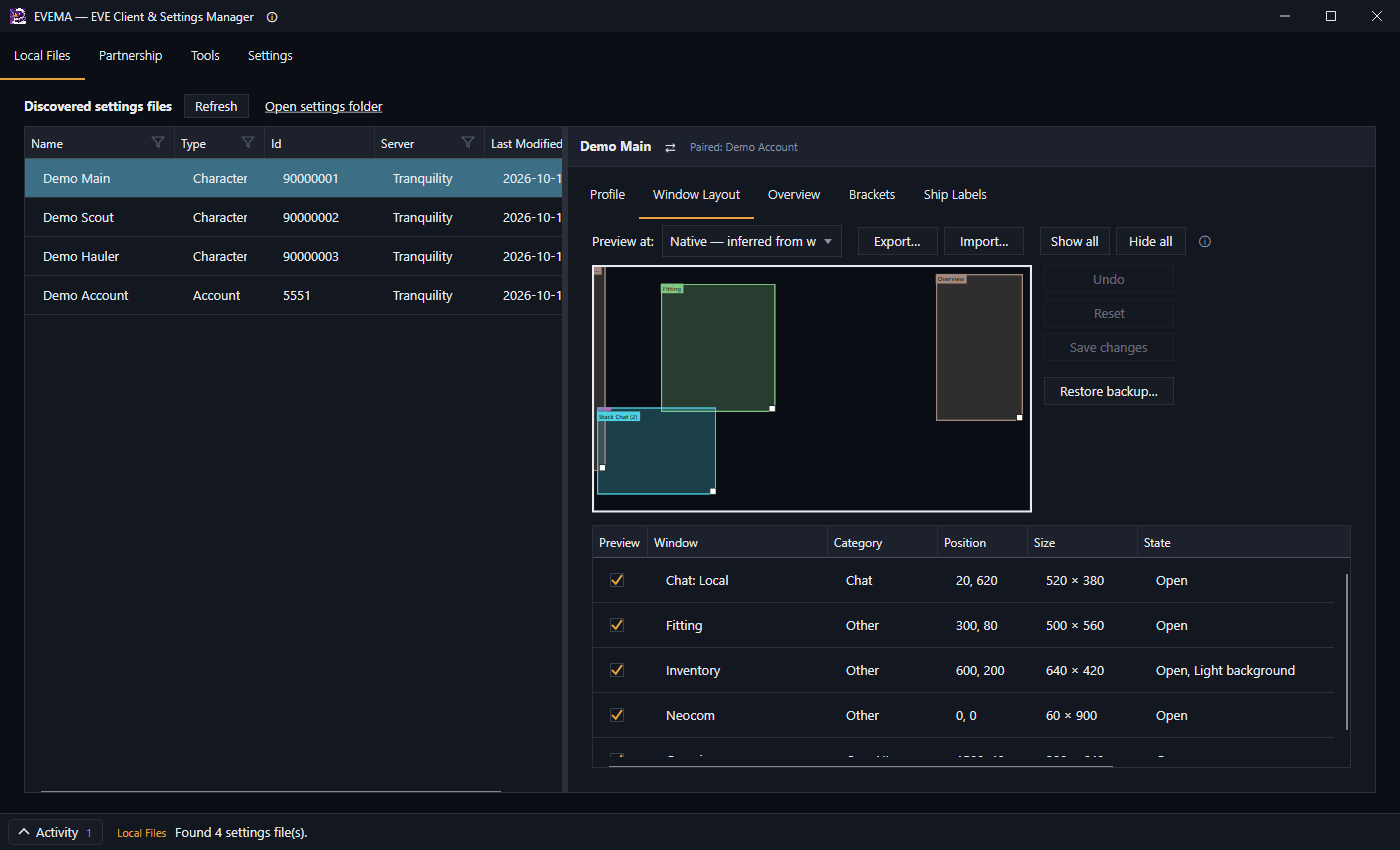
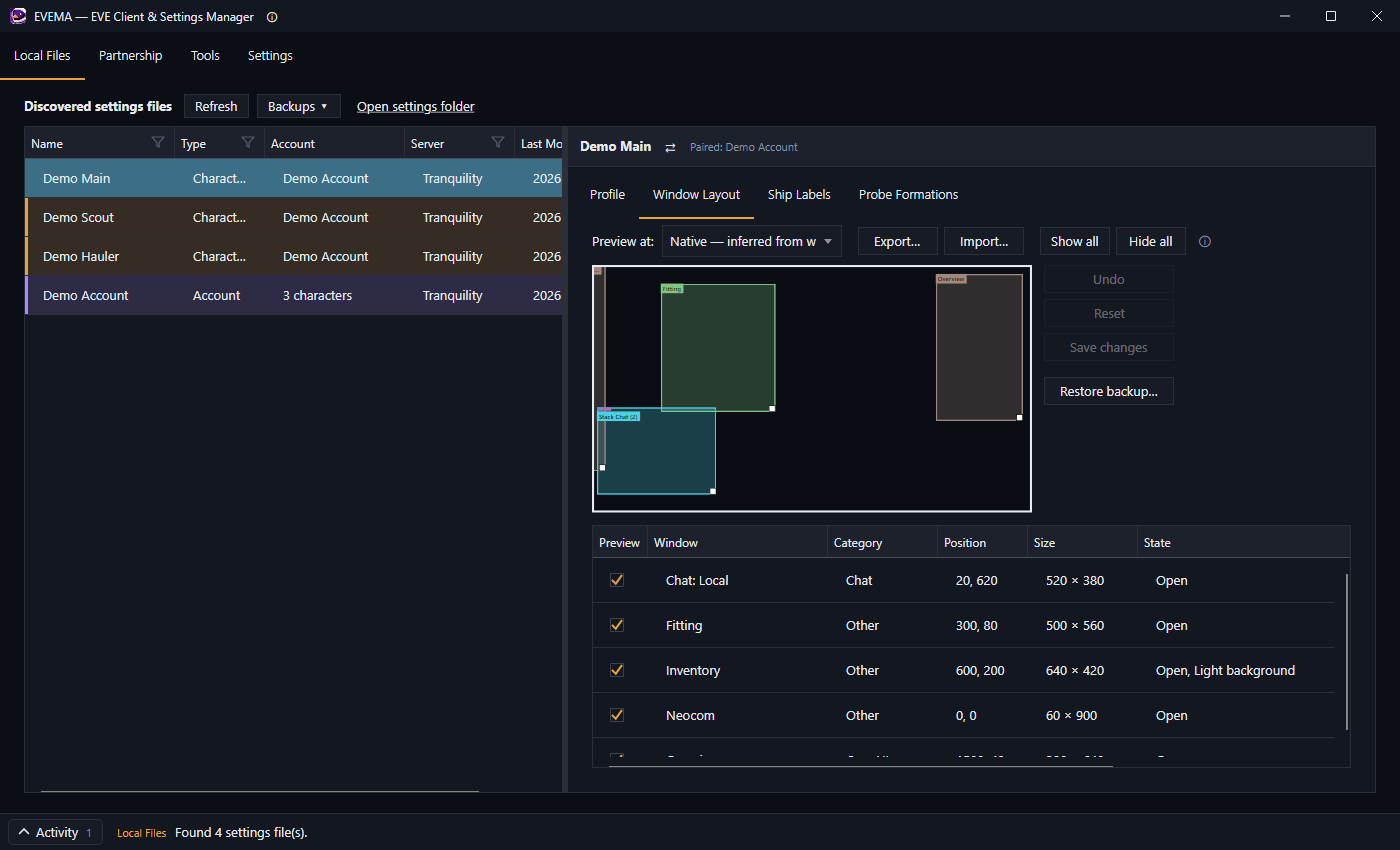
Update docs

Changed region(s): [[0.0, 0.1224, 0.3993, 0.3671], [0.5529, 0.2141, 0.7064, 0.2447], [0.0, 0.0, 0.0307, 0.0306]]

diff --git a/docs/what-evema-does.md b/docs/what-evema-does.md
@@ -8,19 +8,21 @@ EVEMA is a fan project. It is not made, endorsed or supported by Fenris Creation
 
 ### Your settings files (Local Files tab)
 
-- **Finds your settings.** It looks in the usual place on each system, including Steam/Proton and Wine prefixes on Linux. You can also point it at another folder. Characters are shown by name, and accounts by a name you choose.
+- **Finds your settings.** It looks in the usual place on each system, including Steam/Proton and Wine prefixes on Linux. You can also point it at another folder. Characters are shown by name, and accounts by a name you choose. Once you pair each character with its account, the list shows which go together.
 - **Shows what's in them.** For each character and account, it shows:
   - window positions on a scaled canvas
-  - overview tabs and bracket presets
-  - overview options and the ship label
+  - the ship label
   - the character's public profile
 - **Copies settings between characters and accounts:**
   - the whole file, to one character or to many at once
   - or only the sections you pick: window layout, overview tab presets, bracket presets, overview options, ship label
+  - or groups of settings: the whole overview, probe formations, suppressed dialogs, audio, camera and graphics, market filters, module slots, window tab groups, Neocom, chat channels, info panels, docked panels and search history
+  - sections and groups can go to one file or to many at once
   - before anything is written, it shows you what will change
 - **Exports and imports** a character's or account's settings as a JSON file you can keep or share, and exports an account's overview as the `.yaml` file the game's own Overview Settings can import.
-- **Edits settings directly:** bracket presets (create, duplicate, rename, delete, edit groups and states), which preset each overview tab uses, the ship label, overview options, window positions, and the "always show ship brackets" preference.
-- **Backs up before every change.** It makes a timestamped backup before it writes to any file, and you can restore any backup from the app. Files are written in a way that can't leave a half-written file behind, even if something crashes mid-save.
+- **Moves a whole setup** to another computer: **Export everything** saves every settings file of every install and profile, with EVEMA's names and pairings (and its backups, if you like), in one checksummed `.zip`. **Import everything** shows what's new and what differs before writing anything.
+- **Edits settings directly:** the ship label, window positions, probe formations, and the "always show ship brackets" preference. Overview and bracket preset editing is hidden while it's reworked; those settings can still be copied.
+- **Backs up before every change.** It makes a timestamped backup before it writes to any file, and you can restore any backup from the app, onto its own file or another of the same kind. You can also save named backups, which are kept until you delete them. Files are written in a way that can't leave a half-written file behind, even if something crashes mid-save.
 - **Waits for EVE to close.** The client saves its own settings when it logs out or closes, which would overwrite a change made while it was open (and a change only shows up at the next login anyway). So while any client is running, EVEMA holds each change back, shows it in a banner, and writes it once every client has closed, on top of whatever the client saved on its way out. **Write now** and **Discard** are in the banner, and EVEMA asks before quitting with changes still waiting.
 
 ### Partnership tab
@@ -39,7 +41,7 @@ EVEMA is a fan project. It is not made, endorsed or supported by Fenris Creation
 ## What it connects to
 
 - **ESI** (Fenris Creations' official public API, `esi.evetech.net`) and Fenris Creations' image server, for character names, public profiles, portraits and logos, and item group names. No login and no account access: only public information. Responses are cached and reused for as long as Fenris Creations allows.
-- **GitHub**, to check for a newer EVEMA release at startup (you can turn this off in Settings), and for the Tools tab's Get latest and Check for updates buttons when you click them.
+- **GitHub**, to check for a newer EVEMA release at startup (you can turn this off in Settings), to download that release when you click **Install and restart**, and for the Tools tab's Get latest and Check for updates buttons when you click them.
 
 Nothing else. EVEMA has no telemetry or analytics, and it never uploads your settings, logs or anything else.
 
@@ -52,7 +54,8 @@ These are firm lines, not "not yet":
 - **No reading or altering network traffic** between the client and Fenris Creations' servers.
 - **No automation or input.** No macros, no keystroke or mouse broadcasting, and nothing that plays the game for you.
 - **No logging in as you.** EVEMA never asks for your EVE account or SSO login.
-- **Nothing third-party runs inside EVEMA.** Managed tools run as their own programs, and only when you click Launch. EVEMA never starts something it downloaded by itself, never asks for administrator rights, and never installs certificates.
+- **Nothing third-party runs inside EVEMA.** Managed tools run as their own programs, and only when you click Launch.
+- **Nothing it downloads runs unless you click for it.** A tool starts only when you click **Launch**. A new EVEMA installs only when you click **Install and restart**, and only after the download matches the SHA-256 checksum GitHub publishes for it. EVEMA never asks for administrator rights and never installs certificates.
 - **No writes without a backup.**
 
 Requests that would cross these lines will be closed, however useful they would be.
@@ -60,8 +63,8 @@ Requests that would cross these lines will be closed, however useful they would 
 ## Good to know
 
 - **Waiting changes need EVEMA open.** A change held back while EVE runs is written when EVE closes, so leave EVEMA running until then (it asks before you quit). With several clients open, it waits for all of them.
-- **Not every setting can be copied section by section yet.** Keybinds, chat, audio and graphics are copied only as part of a whole-file copy.
-- **Test servers:** ESI only knows Tranquility characters, so characters from Singularity or Thunderdome are shown by ID, not name.
+- **Keybinds can't be copied section by section yet.** They're copied only as part of a whole-file copy.
+- **Other servers:** ESI only knows Tranquility characters. Singularity characters are looked up there anyway and marked "(via Tranquility)", since Singularity is a copy of Tranquility; Thunderdome characters are shown by ID. Serenity (the Chinese server) hasn't been tested: its files show if its client keeps them in the usual place.
 - **macOS:** the app isn't notarized, so the first launch needs right-click → **Open**. On macOS, and in Wine setups other than Steam/Proton, EVEMA may not detect a running client, in which case changes are written straight away, as if EVE were closed.
 - **Where EVEMA keeps its own data:** its preferences, backups, cache and logs live in its own folder, never inside EVE's. **Settings → Open Logs Folder** takes you there.
 

diff --git a/docs/user-guide/copying-settings.md b/docs/user-guide/copying-settings.md
@@ -10,9 +10,11 @@ Everything on this page starts with a right-click on a row in the **Local Files*
 | --- | --- |
 | Make one character's or account's settings an exact copy of another's | [Copy all to](#copy-a-whole-file) |
 | Do that for a whole group of characters at once | [Copy all to N selected files](#copy-to-many-at-once) |
-| Copy only the window layout, or only the overview presets, and leave everything else alone | [Copy sections to](#copy-only-some-sections) |
+| Copy only the window layout, the overview presets, the audio, camera or chat settings, and leave everything else alone | [Copy sections to](#copy-only-some-sections) |
+| Do that for a whole group of characters or accounts at once | [Copy sections to N selected files](#copy-sections-to-many-at-once) |
 | Keep a copy of your setup, move it to another computer, or share it with a friend | [Export and Import](#export-and-import-a-settings-file) |
 | Share your overview in the game's own format, for anyone to import in the client | [In game (.yaml)](#export-your-overview-for-the-game) |
+| Move everything to a new computer | [Export everything](#move-your-whole-setup-to-another-computer) |
 
 Copies only go between files of the same type: character to character, or account to account.
 
@@ -47,7 +49,39 @@ What you can copy:
 
 Overview tabs and bracket presets are matched **by name**, not by position. Nothing is created on the destination: a tab that doesn't exist there is reported as not matched rather than added.
 
-Keybinds, chat, audio and graphics can't be copied section by section yet. Use a whole-file copy for those.
+### More settings you can copy
+
+Under those sections, the window lists more groups of settings. Each is ticked to begin with only if it's on by default below and would change something:
+
+| Group | File | On by default | What it copies |
+| --- | --- | --- | --- |
+| **Overview (everything)** | account | no | The whole overview, columns and colours included. Ticking it unticks the four overview sections above, and the other way round. |
+| **Probe formations** | account | yes | Your saved probe formations and scanner filters. The client's own temporary formation on the destination is kept. |
+| **Suppressed dialogs** | account | yes | Your "don't show this again" choices. |
+| **Audio** | account | yes | Sound settings. |
+| **Camera and graphics** | account | yes | Camera, space mouse and graphics effects. |
+| **Market and contracts** | account | yes | Market and contract search filters. |
+| **Module slots and linked weapons** | account | no | Slot order and weapon groups. Usually set up per character, so it's off. |
+| **Window tab groups** | account | yes | Which tabs are grouped and selected in windows. |
+| **Windows (raw)** | character | no | The whole windows section. **Window layout** is the usual way to copy layouts. |
+| **Neocom** | character | yes | Your Neocom buttons. |
+| **Chat channels** | character | yes | The channels the character has joined. |
+| **Info panels** | character | yes | Which info panels are shown where. |
+| **Docked panels** | character | yes | Docked panels such as the skill planner and the map. |
+| **Search history** | both | no | Recent searches. |
+
+A group makes the destination's settings in it **the same as the source's**. So a setting the source doesn't have is removed, and the change list shows it as **Removed**. Untick it to keep it. Private and player chat channel settings, and cached values such as market prices, are never copied.
+
+Keybinds can't be copied section by section yet. Use a whole-file copy for those.
+
+## Copy sections to many at once
+
+1. Click the source, then **Ctrl+click** (**Cmd+click** on macOS) each target, or **Shift+click** for a range. Targets must be the same type as the source.
+2. Right-click the source and choose **Copy sections to** → **Copy sections to N selected files…**.
+3. Tick sections and groups once; they apply to every target. Each change in a list is labelled with its file, so you can untick a change on one file and keep it on the others.
+4. Click **Copy**.
+
+Each file gets its own backup and its own write. If one fails, the others still go ahead, and the status bar names the ones that failed. For characters, their paired accounts are included, each once, however many of the characters share it.
 
 ## Export and import a settings file
 
@@ -65,6 +99,29 @@ To apply one, right-click the file to change and choose **Import…**. You get t
 The **Ship Labels** tab has the same export under **Export ▾**, plus **Step by step (.txt)…**, which writes instructions for re-entering the label by hand in EVE's Ship Label editor.
 
 A few overview colours EVEMA can't match to the game's palette are left out; the status bar says which, and the game uses its default colour for them.
+
+## Move your whole setup to another computer
+
+**Backups ▾ → Export everything…** (above the Local Files list) saves your whole setup in one `.zip`:
+
+- every character and account settings file, and `prefs.ini`, of every EVE install and profile on this computer
+- EVEMA's account names, character names, pairings and state names
+- EVEMA's backups too, if you tick **Include EVEMA's backups**
+
+On the other computer, run each EVE client you use once, so its settings folder exists. Then choose **Backups ▾ → Import everything…** and pick the archive. EVEMA checks every file against the checksum saved with it, and refuses the whole archive if anything was damaged or changed.
+
+The import window lists every settings file and how it compares with what's already there:
+
+- **New** files are ticked, ready to import.
+- **Different here: replace?** files are not ticked. Tick the ones you want replaced; each is backed up first.
+- **Already the same** files are left alone.
+- **No install of this server** files can't be imported until you've run that client on this computer.
+
+Files go to the same server and profile they came from, even though EVE's install folder has a different name on each computer. If a computer has two installs of one server, the most recently used one gets the files.
+
+Names and pairings are added where this computer has none. Where both computers have a different name for the same character or account, you choose once whether to keep this computer's or take the archive's.
+
+Settings files hold your character and account IDs, chat channel IDs and other details about how you play. Only give an archive to someone you'd show your settings to.
 
 ## If a copy went wrong
 

diff --git a/docs/user-guide/editing-settings.md b/docs/user-guide/editing-settings.md
@@ -4,7 +4,9 @@ EVEMA can change some settings directly, without copying from another character.
 
 Every edit backs up the file first, and every edit waits for EVE to close if a client is running. See [Backups, and changes while EVE is running](backups-and-eve-running.md).
 
-Overview, brackets and ship label settings live in the **account** file. If you select a character, these tabs show its [paired account](getting-started.md#3-pair-each-character-with-its-account), and your edits change that account, so every character on it gets them.
+The ship label and probe formations live in the **account** file. If you select a character, the **Ship Labels** tab shows its [paired account](getting-started.md#3-pair-each-character-with-its-account), and your edits change that account, so every character on it gets them.
+
+Overview tabs and bracket presets can't be viewed or edited in EVEMA for now; that part of EVEMA is being reworked. You can still copy them between accounts with [Copy sections to](copying-settings.md#copy-only-some-sections), and export the whole overview for the game from the **Ship Labels** tab's **Export ▾**.
 
 ## Window layout
 
@@ -19,32 +21,35 @@ The **Window Layout** tab draws every window at its saved position and size, wit
 
 A window outlined in red hangs off the edge of the screen at that resolution.
 
-## Overview
-
-The **Overview** tab lists the account's overview tabs, which bracket preset each one uses, and its columns.
-
-- **Overview flags** (expand the section) are the overview's on/off options. Ticking or unticking one saves it straight away, with a backup.
-- **Edit brackets…** changes which preset the selected tab uses, and that preset's always-shown brackets.
-
-## Brackets
-
-The **Brackets** tab is the bracket preset catalogue for the account.
-
-- **Search presets** and **Unused only** narrow the list. Select a preset to see its groups and states, which tabs use it, and how it compares with another preset (**Compare with**).
-- **Duplicate…**, **Rename…** and **Delete…** manage your own presets. Built-in presets can't be changed: duplicate one to make an editable copy.
-- Add or remove groups and states in the detail pane, then save.
-- **Assign to selected tab** makes the overview tab you picked use this preset. **Tab assignments → Edit…** does the same from the tab's side, and also edits that preset's always-shown list.
-- **Copy preset to…** copies the selected preset to another account.
-- EVE doesn't publish what its numbered *states* mean. Select one, type a name, and click **Save name**; EVEMA shows your name wherever that number appears. The names are kept on your computer only.
-
-**Always show ship brackets in space** (at the bottom of the tab) shows every ship's label all the time, not only when selected. It's a client launch preference stored in `prefs.ini`, not part of the account, so it applies to every account in this settings profile and takes effect after you restart the client.
-
 ## Ship label
 
-The **Ship Labels** tab shows a preview of the account's ship label. **Edit…** opens the editor:
+**Always show ship brackets in space** (at the top of the **Ship Labels** tab) shows every ship's label all the time, not only when selected. It's a client launch preference stored in `prefs.ini`, not part of the account, so it applies to every account in this settings profile and takes effect after you restart the client.
+
+Below it, the tab shows a preview of the account's ship label. **Edit…** opens the editor:
 
 - The label is a list of **segments** (for example corporation, alliance, pilot name, ship type and ship name), plus line breaks. **Add segment**, **Add line break**, **Up**, **Down** and **Remove** arrange them.
 - For each segment you can set it **Enabled**, add **Pre-text** and **Post-text** (such as brackets around a ticker), and choose a **Color**, **Style** and **Font size**. Leaving a colour unchecked, or a style as a dash, uses the client's default.
 - **Save** writes the label; **Cancel** drops your changes.
 
 **Export ▾** saves the label for use elsewhere: **In game (.yaml)…** writes the whole overview, label included, as a file you can import from the client's Overview Settings, and **Step by step (.txt)…** writes instructions for typing the label into EVE's own editor by hand.
+
+## Probe formations
+
+Your saved probe formations live in the **account** file. Select an account, or a character paired with one, and open the **Probe Formations** tab. It lists the formations; select one to see it around your ship, with each probe's range and how far off-centre it is.
+
+![Probe Formations tab](../images/local-files-probe-formations.png)
+
+To change them, click **Edit…** (or right-click the account and choose **Probe formations…**). The editor opens in its own window:
+
+![Probe formation editor](../images/probe-formations.png)
+
+- **Formations** (left): **Add**, **Duplicate**, **Move up**, **Move down** and **Delete**. Select one to edit it, and type its name under **Name**.
+- **Preview** (middle): the formation around your ship, with North/South, West/East and Up/Down axes. Drag to turn it, scroll to zoom, or pick **Top**, **Front**, **Side** or **Reset**.
+- **Probes** (right): each probe's distance from the ship to the West, Up and North (negative for East, Down and South), and its range. Type plain numbers for km, or add **m** or **au**; far-out positions are shown in AU. **Every probe's range** sets them all at once. A formation holds up to 8 probes.
+- **Start from a preset** and **Pattern** replace the selected formation's probes. Patterns (ring, line, sphere, pinpoint) take a count, a spread and an axis. Presets such as **Drifter** and the **Stack** ones are close-range layouts, measured in km.
+- **Transform** scales, rotates, mirrors or moves the whole formation.
+- **Undo** and **Redo** step through your edits, and **Save** writes them, with a backup, like every other change.
+
+**Keep formations centred.** In game, a formation is placed around the probes' current average position, not around your ship. So a formation whose probes don't average out on the ship drifts that far every time you apply it. Below the preview, EVEMA tells you how far off-centre a formation is, and **Balance** adds or moves one probe to centre it.
+
+If the file changes while the window is open, for example because EVE saved it when you logged out, EVEMA offers **Reload**. Closing with unsaved changes asks first.

diff --git a/docs/user-guide/getting-started.md b/docs/user-guide/getting-started.md
@@ -18,14 +18,14 @@ Click **Get started**, or **Skip (use defaults)**. Everything here can be change
 
 Open the **Local Files** tab. The left side lists every settings file EVEMA found, under **Discovered settings files**:
 
-- **Characters** are shown by name, looked up from EVE's public API. Characters from the test servers (Singularity, Thunderdome) are shown by ID, because that API only knows Tranquility.
+- **Characters** are shown by name, looked up from EVE's public API, which only knows Tranquility. Singularity is a copy of Tranquility, so its characters are looked up there too and marked **(via Tranquility)**: a character made on Singularity since the last copy may not match. Thunderdome characters are shown by ID. The **Server** column, and its filter, say which server each file belongs to.
 - **Accounts** have no public name, so they're listed by ID. Give each one a name you'll recognise: right-click it and choose **Rename Account…**. The name is only stored in EVEMA.
 
 Click any row to see its details on the right. Use the funnel icons in the **Name**, **Type** and **Server** column headers to filter the list, and **Refresh** after EVE has saved new files.
 
 ## 3. Pair each character with its account
 
-A character's overview, brackets and ship label live in its *account's* file (see [the two file types](README.md#two-words-used-everywhere)). To see them when you select the character, pair the two:
+A character's overview, ship label and probe formations live in its *account's* file (see [the two file types](README.md#two-words-used-everywhere)). To see them when you select the character, pair the two:
 
 1. Select the character.
 2. Click the **⇄** button next to its name, above the detail tabs.
@@ -33,15 +33,23 @@ A character's overview, brackets and ship label live in its *account's* file (se
 
 EVEMA remembers the pairing. **Clear** removes it.
 
+You can see the pairings in the list:
+
+- The **Account** column shows each character's account, or **Not paired**, and each account's number of characters. Click the column heading to sort, which puts each account's characters together.
+- Select a character, and its account's row is tinted **violet** and the other characters on that account **amber**, so every file that goes with it, and which kind it is, shows at a glance. Select an account, and all of its characters are tinted amber, and the header above the tabs lists them. Select several rows at once (say, to copy settings to them) and the tints stay while they all belong to one account; pick rows from different accounts and the tints step aside.
+
 > **Not sure which account a character is on?** Log in with only that character, log out, close the client, then click **Refresh** in EVEMA. The character file and the account file with the newest **Last Modified** times belong together.
 
 ## 4. Look around
+
+In the list, click a column heading to sort by it, drag a column's edge to resize it, and **double-click the edge** to fit the column to its contents. EVEMA remembers the widths you set, and where you leave the divider between the list and the details, like the window size.
 
 With a character selected, the detail tabs show:
 
 - **Profile:** public information from EVE's API (corporation, alliance, history) and what EVEMA can see on this computer.
 - **Window Layout:** every window's position drawn to scale. **Preview at:** shows how the layout would look at another screen resolution.
-- **Overview**, **Brackets** and **Ship Labels:** the paired account's overview tabs, bracket presets and ship label.
+- **Ship Labels:** the paired account's ship label, and the "always show ship brackets in space" preference.
+- **Probe Formations:** the paired account's saved probe formations, with **Edit…** to change them.
 
 Nothing is changed by looking. EVEMA only writes when you click something that says so, and it always makes a [backup](backups-and-eve-running.md) first.
 

diff --git a/README.md b/README.md
@@ -8,9 +8,9 @@ EVEMA is a fan tool and is not affiliated with or endorsed by Fenris Creations (
 
 **What it does, in short:**
 
-- See each character's window layout, overview, bracket presets and ship label without logging in.
+- See each character's window layout, ship label and public profile without logging in.
 - Copy a whole settings file, or just the sections you pick, from one character to one or many others, with a preview of every change first.
-- Edit bracket presets, ship labels and overview options directly. Every change is backed up first and can be restored.
+- Edit window positions, ship labels and probe formations directly. Every change is backed up first and can be restored.
 - Keep community tools such as EVE-O Preview and Pyfa installed, launched and up to date, with checksums verified.
 
 EVEMA never modifies the client, reads its memory or automates anything. See **[what EVEMA does and won't do](docs/what-evema-does.md)** for the full list, including exactly what it connects to.
@@ -20,7 +20,7 @@ EVEMA never modifies the client, reads its memory or automates anything. See **[
 
 | | |
 |---|---|
-| ![Brackets](docs/images/local-files-brackets.png) | ![Ship labels](docs/images/local-files-ship-labels.png) |
+| ![Ship labels](docs/images/local-files-ship-labels.png) | ![Probe formations](docs/images/probe-formations.png) |
 | ![Warning while EVE is running](docs/images/running-client-banner.png) | ![Tools](docs/images/tools.png) |
 
 </details>
@@ -33,10 +33,12 @@ Grab the archive for your system from the [Releases page](../../releases). Every
 
 | System | File | Install |
 | --- | --- | --- |
-| Windows (64-bit) | `EVEMA-<version>-win-x64.zip` | Unzip anywhere and run `EVEMA.exe`. |
+| Windows (64-bit) | `EVEMA-<version>-win-x64-setup.exe` | Run it. Installs for you only (no administrator rights), with a Start menu entry and an uninstaller. |
+| Windows (64-bit), portable | `EVEMA-<version>-win-x64.zip` | Unzip anywhere and run `EVEMA.exe`. |
 | macOS, Apple silicon | `EVEMA-<version>-osx-arm64.zip` | Unzip, drag `EVEMA.app` to Applications. |
 | macOS, Intel | `EVEMA-<version>-osx-x64.zip` | Same as above. |
-| Linux (x64) | `EVEMA-<version>-linux-x64.tar.gz` | Extract, then run `./EVEMA`. |
+| Linux (x64) | `EVEMA-<version>-linux-x64.AppImage` | Make it executable (`chmod +x`) and run it. |
+| Linux (x64), tarball | `EVEMA-<version>-linux-x64.tar.gz` | Extract, then run `./EVEMA`. |
 
 **macOS first launch.** The app is not notarized, so macOS will refuse a normal double-click the first time. Right-click `EVEMA.app`, choose **Open**, then confirm (or allow it under System Settings → Privacy & Security → Open Anyway). You only need to do this once.
 

diff --git a/docs/user-guide/README.md b/docs/user-guide/README.md
@@ -5,8 +5,8 @@ Step-by-step help for using EVEMA. If you haven't installed it yet, start with t
 ## Pages
 
 1. **[Getting started](getting-started.md)**: first launch, finding your settings, naming accounts and pairing each character with its account.
-2. **[Copying settings](copying-settings.md)**: copy a whole file to one character or many, copy only some sections, and export or import settings as a file.
-3. **[Editing settings](editing-settings.md)**: window positions, overview options, bracket presets and the ship label.
+2. **[Copying settings](copying-settings.md)**: copy a whole file to one character or many, copy only some sections or groups of settings (to one file or many), and export or import settings as a file.
+3. **[Editing settings](editing-settings.md)**: window positions, the ship label and probe formations.
 4. **[Backups, and changes while EVE is running](backups-and-eve-running.md)**: how EVEMA keeps your files safe, how to undo a change, and why it waits for EVE to close.
 5. **[Tools](tools.md)**: keep EVE-O Preview, Pyfa and other community tools installed, launched and up to date.
 6. **[Partnership](partnership.md)**: list the pilots from your combat logs and run a skin giveaway draw.
@@ -21,6 +21,6 @@ EVE keeps your settings in two kinds of file, and EVEMA shows both in the **Loca
 | Type in EVEMA | File | What's in it |
 | --- | --- | --- |
 | **Character** | `core_char_<character ID>.dat` | Window positions and sizes, and other per-character settings. |
-| **Account** | `core_user_<account ID>.dat` | Overview tabs and columns, bracket presets, overview options and the ship label. Shared by every character on that account. |
+| **Account** | `core_user_<account ID>.dat` | Overview tabs and columns, bracket presets, overview options, the ship label, probe formations, and graphics, audio and camera settings. Shared by every character on that account. |
 
 So moving your windows around changes a *character* file, and changing your overview changes an *account* file. EVE can't tell EVEMA which characters belong to which account, which is why [pairing](getting-started.md#3-pair-each-character-with-its-account) exists.

diff --git a/docs/user-guide/troubleshooting.md b/docs/user-guide/troubleshooting.md
@@ -26,7 +26,7 @@ The usual locations are:
 
 ## A character shows a number instead of a name
 
-Names come from EVE's public API, which only knows Tranquility characters. Characters on Singularity or Thunderdome are shown by ID. Right-click and **Rename Character…** to give it a name in EVEMA.
+Names come from EVE's public API, which only knows Tranquility characters. Singularity characters are looked up there too and marked **(via Tranquility)**; if one shows the wrong name, it was probably made on Singularity after the last copy from Tranquility. Thunderdome characters are shown by ID. Either way, right-click and **Rename Character…** to give it a name in EVEMA; your name always wins.
 
 ## I want to undo a change
 
@@ -43,6 +43,14 @@ The app isn't code-signed yet. Choose **More info → Run anyway**. You can chec
 ## A Linux AppImage tool won't start
 
 Mark it executable (`chmod +x Tool.AppImage`, or tick "Allow executing as program" in your file manager), then click **Launch** again.
+
+## Updating EVEMA
+
+When a newer EVEMA is out, a banner above the tabs says so (turn the check off in **Settings → Updates**).
+
+- **Install and restart** (Windows and Linux) downloads the new version, checks it against the SHA-256 checksum GitHub publishes for it, puts it in place of the running one, and restarts EVEMA. If the download doesn't match, or GitHub published no checksum, nothing is installed and the banner says why. EVEMA's old files are removed the next time it starts.
+- While changes are waiting for EVE to close, EVEMA won't restart for an update: write or discard them in **Local Files** first.
+- **View release** opens the release page, to download the new version yourself. On macOS that's the only option: macOS runs an app it hasn't seen notarized from a read-only copy, so EVEMA can't replace itself there. The same goes for the Linux AppImage, which runs from a read-only image (download the new AppImage instead), and for any folder EVEMA can't write to.
 
 ## Where EVEMA keeps its own data
 

diff --git a/docs/user-guide/backups-and-eve-running.md b/docs/user-guide/backups-and-eve-running.md
@@ -16,6 +16,26 @@ Restoring is itself a change, so the current version is backed up first. If you 
 
 For a character's window layout, the **Window Layout** tab also has a **Restore backup…** button.
 
+## Make a named backup
+
+Before you try something out, save a backup you can find again:
+
+1. In **Local Files**, right-click the file and choose **Back up now…**.
+2. Give it a name, such as "Before the fleet fight", and click OK.
+
+Named backups are **never deleted automatically**, however many changes you make afterwards. They show up in **Restore backup** under their name.
+
+A change that's still waiting for EVE to close isn't in a named backup: it isn't in the file yet. It gets its own backup when it's written.
+
+## Manage your backups
+
+Choose **Backups ▾ → Manage backups…** above the Local Files list to see every backup EVEMA holds, for every character and account. Click a column heading to sort, and use **Ctrl+click** (**Cmd+click** on macOS) or **Shift+click** to select several.
+
+- **Restore onto:** select one backup, pick a file, and click **Restore…**. The backup's own file is offered first, but you can also pick another character (or account) of the same kind. That applies, say, one character's backed-up layout to another. You get the same preview and confirmation as **Restore backup**, and the file you overwrite is backed up first.
+- **Delete…:** select one or more backups and click **Delete…**. EVEMA asks first. Deleted backups can't be recovered, but your settings files are not changed.
+
+A character's backup can only go onto a character, and an account's onto an account.
+
 ## Changes while EVE is running
 
 The EVE client saves its own copy of your settings when you log out or close it. A change written while the client is open would be overwritten a moment later, and the client wouldn't show it until next login anyway.

diff --git a/THIRD-PARTY-NOTICES.md b/THIRD-PARTY-NOTICES.md
@@ -56,7 +56,9 @@ not affiliated with, endorsed by, or sponsored by Fenris Creations (formerly CCP
 [`TrueBrain/blue-marshal-rs`](https://github.com/TrueBrain/blue-marshal-rs) was
 the reference that identified where Fenris Creations' published marshalling source lives.
 No code from it is included in EVEMA; it is credited because the pointer is what
-made a correct implementation possible.
+made a correct implementation possible. It is also used as a cross-check when
+reading Fenris Creations' source, for example on when the loader registers shared
+objects.
 
 ```
 Copyright (c) 2026 TrueBrain
@@ -67,8 +69,12 @@ MIT License
 ## EVE Wrench
 
 [`eve-wrench/eve-wrench-app`](https://github.com/eve-wrench/eve-wrench-app) (MIT)
-was studied as prior art for feature scope and for its attribution trail. No code
-from it is included in EVEMA.
+was studied as prior art for feature scope and for its attribution trail. Facts
+EVEMA took from it, each checked against real settings files or in game: which
+settings keys make up each copy group, the probe formation axis convention (+x
+West, +y Up, +z North), the layouts of the Drifter and directional-stack probe
+presets, and its note that the client re-centres a formation on the probes'
+average position. No code from it is included in EVEMA.
 
 ## Avalonia
 
